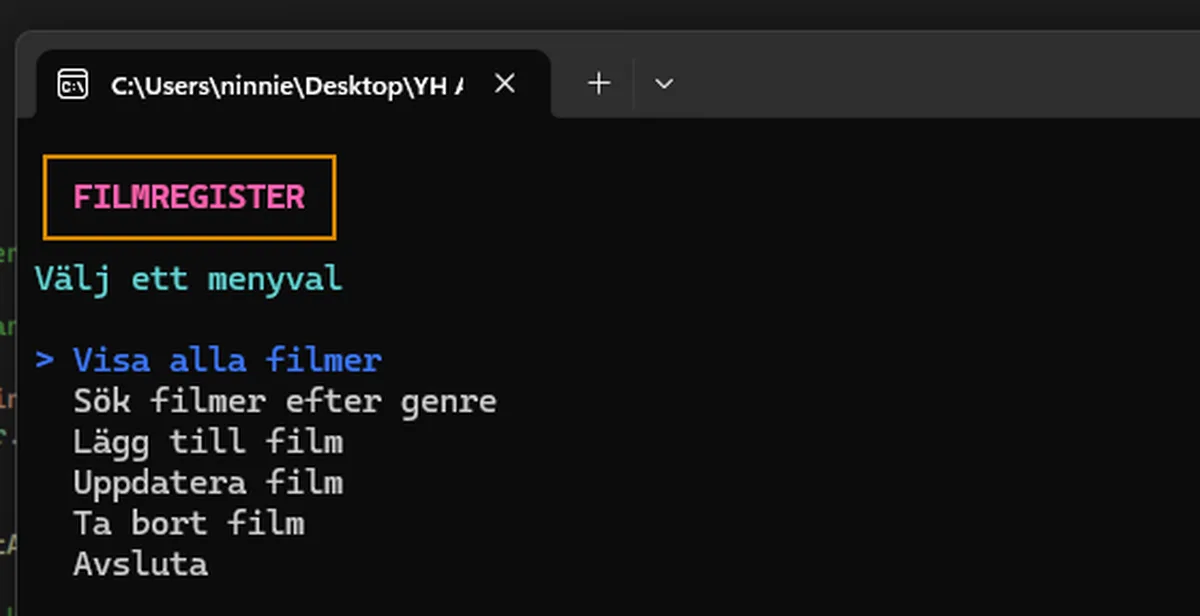
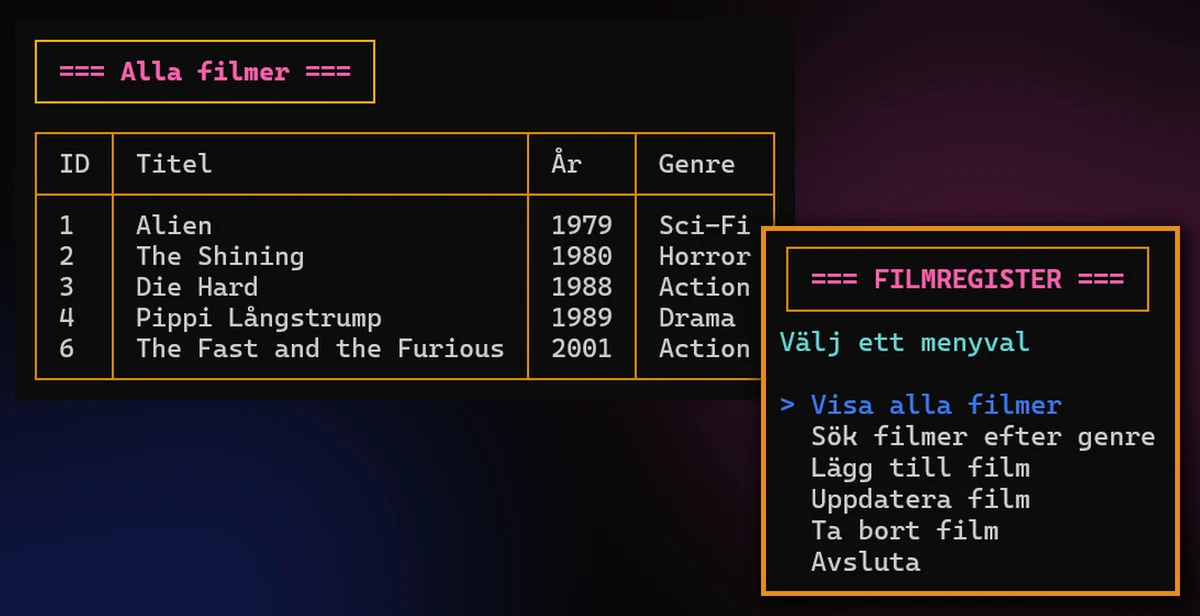
feat: fler skärmbilder för Filmregister och Webbportfolio
- Filmregister: nytt projektkort + 4 bilder i popupen
- Webbportfolio: startsidan i mörkt och ljust läge i popupen
- Ny README-bild (mörkt/ljust) och og:image pekar på nninnie.se

Claude-Session: https://claude.ai/code/session_01LUe59QmnRuqkMBFkrc2v3D

diff --git a/js/projects.js b/js/projects.js
@@ -44,7 +44,10 @@ const projectsSv = {
         features: ["ADO.NET (SqlConnection, SqlCommand)", "Parametriserade SQL-frågor", "Repository-mönster", "Relation Genre (1) → Movie (N)", "Spectre.Console-UI"],
         img: "image/portfolio/movie-register.webp",
         screenshots: [
-            { src: "image/portfolio/screens/movie-1.webp", alt: "Huvudmenyn i filmregistret" }
+            { src: "image/portfolio/screens/movie-1.webp", alt: "Huvudmenyn i filmregistret" },
+            { src: "image/portfolio/screens/movie-2.webp", alt: "Alla filmer i en tabell" },
+            { src: "image/portfolio/screens/movie-3.webp", alt: "Sök filmer efter genre" },
+            { src: "image/portfolio/screens/movie-4.webp", alt: "Välj film att uppdatera" }
         ]
     },
 
@@ -71,6 +74,8 @@ const projectsSv = {
         features: ["Responsiv design", "Glow Color Picker", "Dark/Light mode", "Weather API", "Interaktiva komponenter"],
         img: "image/portfolio/webbportfolio.webp",
         screenshots: [
+            { src: "image/portfolio/screens/portfolio-0a.webp", alt: "Startsidan i mörkt läge" },
+            { src: "image/portfolio/screens/portfolio-0b.webp", alt: "Startsidan i ljust läge" },
             { src: "image/portfolio/screens/portfolio-1.webp", alt: "Kontaktdelen som laptop" },
             { src: "image/portfolio/screens/portfolio-2.webp", alt: "Kontaktdelen som surfplatta" },
             { src: "image/portfolio/screens/portfolio-3.webp", alt: "Kontaktdelen som telefon" }
@@ -116,7 +121,10 @@ const projectsEn = {
         features: ["ADO.NET (SqlConnection, SqlCommand)", "Parameterized SQL queries", "Repository pattern", "Relation Genre (1) → Movie (N)", "Spectre.Console UI"],
         img: "image/portfolio/movie-register.webp",
         screenshots: [
-            { src: "image/portfolio/screens/movie-1.webp", alt: "Main menu of the movie register" }
+            { src: "image/portfolio/screens/movie-1.webp", alt: "Main menu of the movie register" },
+            { src: "image/portfolio/screens/movie-2.webp", alt: "All movies in a table" },
+            { src: "image/portfolio/screens/movie-3.webp", alt: "Search movies by genre" },
+            { src: "image/portfolio/screens/movie-4.webp", alt: "Choose a movie to update" }
         ]
     },
 
@@ -143,6 +151,8 @@ const projectsEn = {
         features: ["Responsive design", "Glow Color Picker", "Dark/Light mode", "Weather API", "Interactive components"],
         img: "image/portfolio/webbportfolio.webp",
         screenshots: [
+            { src: "image/portfolio/screens/portfolio-0a.webp", alt: "Start page in dark mode" },
+            { src: "image/portfolio/screens/portfolio-0b.webp", alt: "Start page in light mode" },
             { src: "image/portfolio/screens/portfolio-1.webp", alt: "Contact section as laptop" },
             { src: "image/portfolio/screens/portfolio-2.webp", alt: "Contact section as tablet" },
             { src: "image/portfolio/screens/portfolio-3.webp", alt: "Contact section as phone" }

diff --git a/index-en.html b/index-en.html
@@ -6,7 +6,7 @@
     <meta name="description" content="Portfolio by Ninnie Dahlström - System developer in .NET, C#, SQL, API and modern web development.">
     <meta property="og:title" content="Ninnie Dahlström - Webbportfolio">
     <meta property="og:description" content="Responsiv frontenddesign med HTML, CSS och JavaScript">
-    <meta property="og:image" content="https://nninnie.github.io/webbportfolio/image/readme-image.png">
+    <meta property="og:image" content="https://nninnie.se/image/readme-image.png">
     <meta property="og:url" content="https://nninnie.github.io/webbportfolio/">
     <meta property="og:type" content="website">
     <title>Ninnie Dahlström - Portfolio</title>

diff --git a/index.html b/index.html
@@ -6,7 +6,7 @@
     <meta name="description" content="Portfolio av Ninnie Dahlström - Systemutvecklare inom .NET, C#, SQL, API och modern webbutveckling.">
     <meta property="og:title" content="Ninnie Dahlström - Webbportfolio">
     <meta property="og:description" content="Responsiv frontenddesign med HTML, CSS och JavaScript">
-    <meta property="og:image" content="https://nninnie.github.io/webbportfolio/image/readme-image.png">
+    <meta property="og:image" content="https://nninnie.se/image/readme-image.png">
     <meta property="og:url" content="https://nninnie.se">
     <meta property="og:type" content="website">
 

diff --git a/README.md b/README.md
@@ -1,7 +1,7 @@
 # 🌐 WebbPortfolio - Ninnie Dahlström
 
 <p align="center">
-  <img src="image/readme-image.png" alt="Webbbportfolio" width="1100"/>
+  <img src="image/readme-image.png" alt="Webbportfolio i mörkt och ljust läge" width="1100"/>
 </p>
 
 En modern, responsiv och tillgänglig webportfolio byggd med **HTML**, **CSS** och **JavaScript**.  
